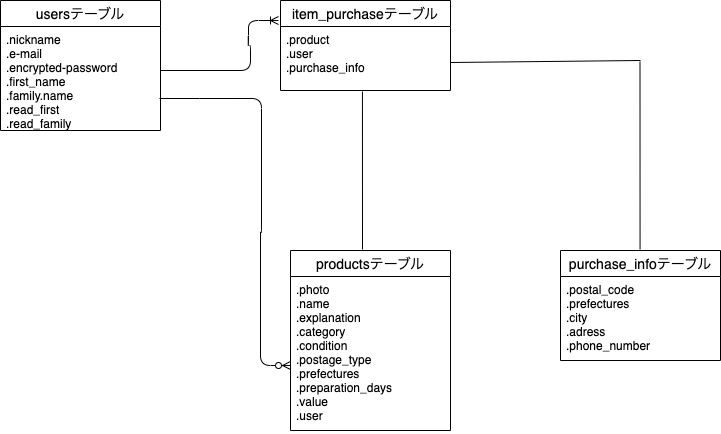
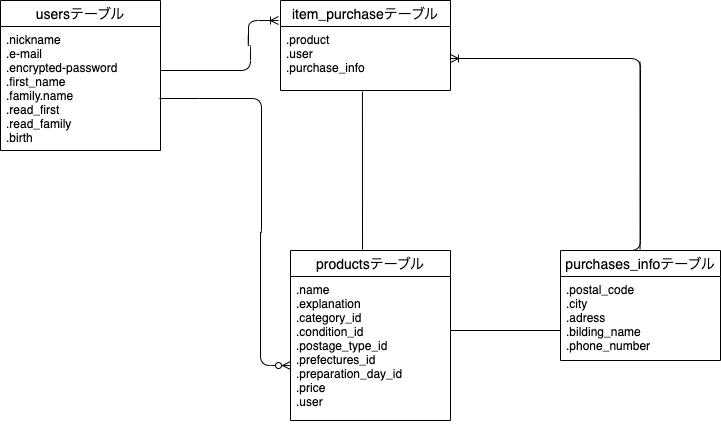
データベース修正

diff --git a/README.md b/README.md
@@ -1,14 +1,19 @@
 ## users テーブル
 
-| Column              | Type   | Options     |
-| ------------------  | ------ | ----------- |
-| nickname            | string | null: false |
-| email               | string | null: false |
-| encrypted_password  | string | null: false |
-| first_name          | string | null: false |
-| family_name         | string | null: false |
-| read_first          | string | null: false |
-| read_family         | string | null: false |
+| Column              | Type   | Options                 |
+| ------------------  | ------ | ----------------------- |
+| nickname            | string | null: false             |
+| email               | string | null: false,unique: true|
+| encrypted_password  | string | null: false             |
+| first_name          | string | null: false             |
+| family_name         | string | null: false             |
+| read_first          | string | null: false             |
+| read_family         | string | null: false             |
+| read_family         | string | null: false             |
+| read_family         | string | null: false             |
+| birth               | date   | null: false             |
+
+
 
 ### Association
 
@@ -17,18 +22,17 @@
 
 ##  productsテーブル
 
-| Column              | Type       | Options     |
-| ------------------  | ------     | ----------- |
-| photo               | text       | null: false |
-| name                | string     | null: false |
-| explanation         | text       | null: false |
-| category            | integer    | null: false |
-| condition           | integer    | null: false |
-| postage_type        | integer    | null: false |
-| prefectures         | integer    | null: false |
-| preparation_days    | integer    | null: false |
-| value               | integar    | null: false |
-| user                | references | null: false | 
+| Column               | Type       | Options     |
+| -------------------  | ------     | ----------- |
+| name                 | string     | null: false |
+| explanation          | text       | null: false |
+| category_id          | integer    | null: false |
+| condition_id         | integer    | null: false |
+| postage_type_id      | integer    | null: false |
+| prefectures_id       | integer    | null: false |
+| preparation_day_id   | integer    | null: false |
+| price                | integer    | null: false |
+| user                 | references | null: false | 
 
 ### Association
 
@@ -36,11 +40,11 @@
 - has_one :item_purchase
 
 ## item_purchases テーブル
-| Column        | Type    | Options                        |
-| ------------- | ------- | ------------------------------ |
-| product       | integer | null: false, foreign_key: true |
-| user          | integer | null: false, foreign_key: true |
-| purchase_info | integer | null: false, foreign_key: true |
+| Column        | Type       | Options                        |
+| ------------- | ---------- | ------------------------------ |
+| product       | references | null: false, foreign_key: true |
+| user          | references | null: false, foreign_key: true |
+| purchase_info | references | null: false, foreign_key: true |
 
 ### Association
 
@@ -48,17 +52,18 @@
 - belongs_to :product
 - belongs_to :purchase_info
 
-## purchase_info テーブル
+## purchases_info テーブル
 
-| Column        | Type       | Options                        |
-| ------------- | ---------- | ------------------------------ |
-| postal_code   | string     | null: false                    |
-| prefectures   | integer    | null: false, foreign_key: true |
-| city          | string     | null: false                    |
-| address       | string     | null: false                    |
-| phone_number  | string     | null: false                    |
-| item_purchase | integer    | null: false, foreign_key: true |
+| Column        | Type        | Options                        |
+| ------------- | ----------  | ------------------------------ |
+| postal_code   | string      | null: false                    |
+| city          | string      | null: false                    |
+| address       | string      | null: false                    |
+| building_name | string      | null: false                    |
+| phone_number  | string      | null: false                    |
+| item_purchase | references  | null: false, foreign_key: true |
+
 
 ### Association
 
-- has_one :item_purchase
+- has_many :item_purchase
